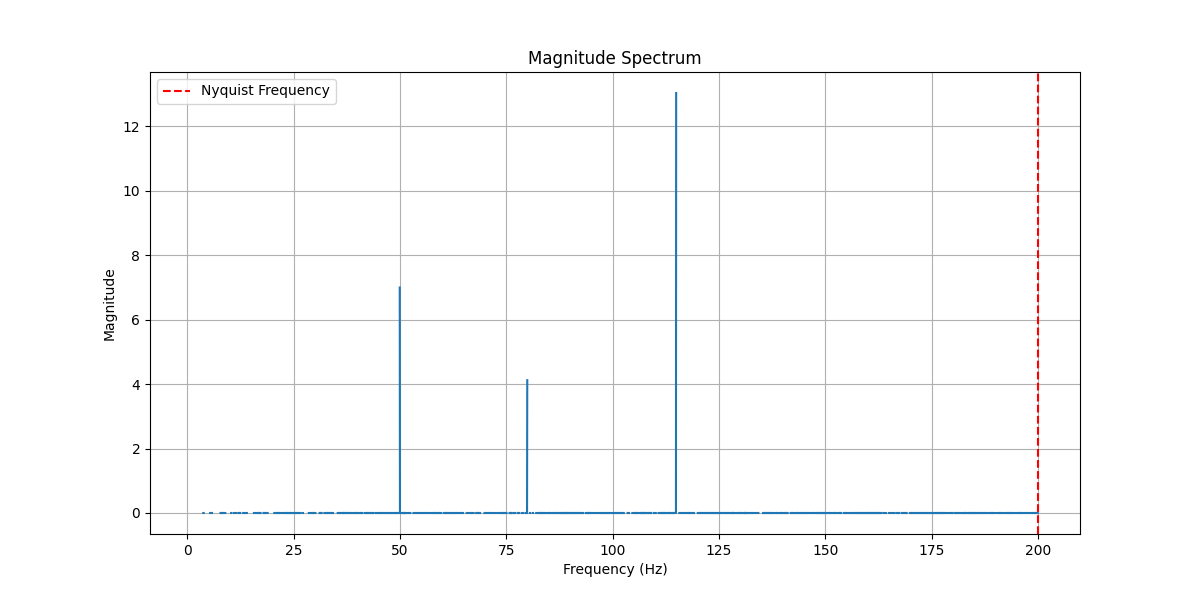
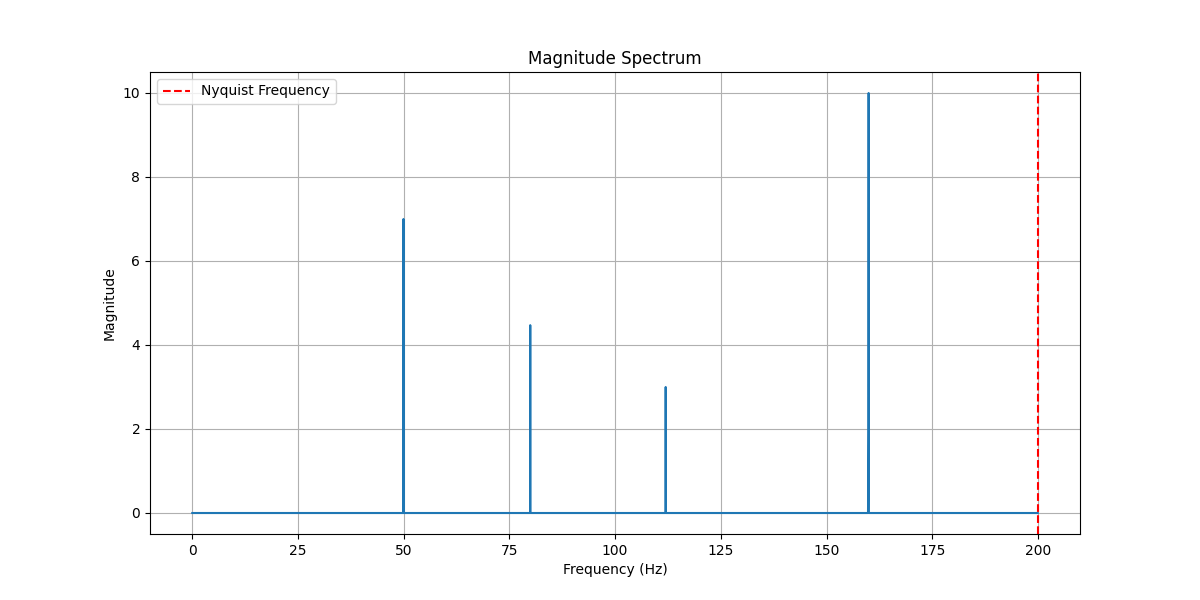
thresholded hardware fft, complete spectrum

diff --git a/Combined_Simulator/shiao/processing_elements/rtl_wrappers/fft_verilog.py b/Combined_Simulator/shiao/processing_elements/rtl_wrappers/fft_verilog.py
@@ -135,8 +135,25 @@ async def fft_verilog(dut,
     np_real_output = np.array(real_output)
     np_imag_output = np.array(imag_output)
 
+    print(np_real_output)
+    num_inf_nan = np.count_nonzero(np.isnan(np_real_output) | np.isinf(np_real_output))
+    print(f"Number of values in np_real_output that are inf or nan: {num_inf_nan}")
+
+    print(np_imag_output)
+    num_inf_nan = np.count_nonzero(np.isnan(np_imag_output) | np.isinf(np_imag_output))
+    print(f"Number of values in np_imag_output that are inf or nan: {num_inf_nan}")
+
+    # replac vals in np_real and np_imag that are above a certain threshold with 0
+    threshold = (2**31) - 1000
+    np_real_output = np.where(np_real_output > threshold, 0, np_real_output)
+    np_imag_output = np.where(np_imag_output > threshold, 0, np_imag_output)
+
     for i in range(len(real_output)):
         output_spectrum[i] = np.sqrt(np_real_output[i]**2 + np_imag_output[i]**2)
+
+    print(output_spectrum)
+    num_inf_nan = np.count_nonzero(np.isnan(output_spectrum) | np.isinf(output_spectrum))
+    print(f"Number of values in output_spectrum that are inf or nan: {num_inf_nan}")
     
     # midpoint = len(output_spectrum) // 2
 
@@ -147,6 +164,7 @@ async def fft_verilog(dut,
 
     sample_spacing = 1/sample_freq # how much time between samples
     freq_bins = np.fft.fftfreq(num_samples, sample_spacing) # provide a frequency for each index of the fft output
+    print(freq_bins)
     positive_freq_bins = freq_bins[:num_samples // 2] # only positive frequencies bins
 
     # plotting the output spectrum

diff --git a/Combined_Simulator/shiao/signal_gen/simple_signal_gen.py b/Combined_Simulator/shiao/signal_gen/simple_signal_gen.py
@@ -39,7 +39,13 @@ def sample_signals(num_channels,
         returnSignal = 0
         for i in range(len(frequencies)):
             returnSignal += amplitudes[i] * np.sin(2*np.pi*frequencies[i]*t)  
-        return (returnSignal)
+
+        # shiftedReturnSignal = [returnSignal[i] << 10 for i in range(len(returnSignal))]
+        # return (returnSignal * (1 << 10))
+        return returnSignal
+    
+    def constant_signal(t):
+        return np.ones_like(t) * 100
     
     def randomvals(t):
         return np.ones_like(t)
@@ -49,6 +55,8 @@ def sample_signals(num_channels,
         x = np.linspace(start=0, stop=sample_window, num=num_samples, endpoint=False)
         if i == 0:
             sampled_signals.append(signal1(x))
+            # sampled_signals.append(constant_signal(x))
+
             # display 1st sampled signal
             if saveGraphs:
                 plt.figure(figsize=(12, 6))

diff --git a/Combined_Simulator/shiao/pipeline.py b/Combined_Simulator/shiao/pipeline.py
@@ -40,8 +40,8 @@ async def test_fft_verilog(dut):
     
     # sample ieeg signals ----------------------------------------------------------------------------
     
-    generated_signal_frequencies = [50, 80, 115]
-    generated_signal_amplitudes =  [15, 15, 28]
+    generated_signal_frequencies = [50, 80, 112, 160]
+    generated_signal_amplitudes =  [15, 15, 12, 28]
 
     sampled_signals = sample_signals(num_channels=num_channels, 
                                      sample_window=sample_window, 
